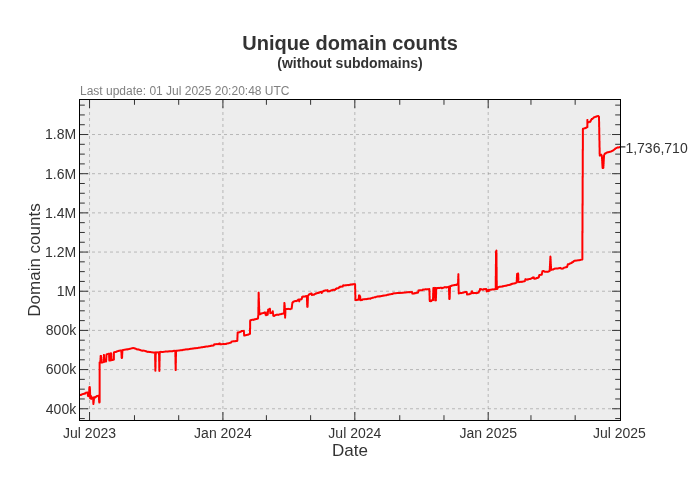
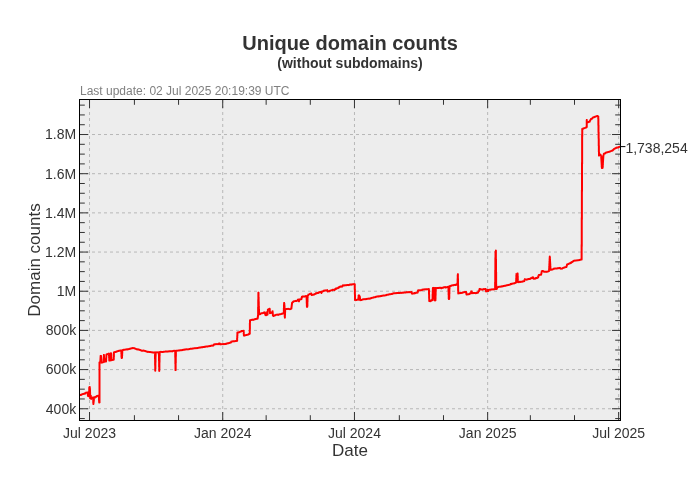
Update pages

diff --git a/README.md b/README.md
@@ -3,23 +3,23 @@ A blocklist file for blocking ads, trackers and malware domains.
 
[1 lines of base64/hex data omitted]
 
-- Unique domains: 2,448,076
-- Without subdomains: 1,736,710
-- Last update: 01 Jul 2025 20:20:48 UTC
-- Version: 2025.07.01.01
+- Unique domains: 2,450,290
+- Without subdomains: 1,738,254
+- Last update: 02 Jul 2025 20:19:39 UTC
+- Version: 2025.07.02.01
 
 
 ### Downloads:
 
 | Format             | Domain count      | Download Link |
 |:------------------ | -----------------:|:-------------:|
-| *Adblock Plus*     | 1,736,710 | [Download](https://dl.cenk.app/bad-hosts/bad-hosts-abp) |
-| *Wildcard domains* | 1,736,710 | [Download](https://dl.cenk.app/bad-hosts/bad-hosts-wildcard) |
-| *dnsmasq*          | 1,736,710 | [Download](https://dl.cenk.app/bad-hosts/bad-hosts-dnsmasq) |
-| *Unbound*          | 1,736,710 | [Download](https://dl.cenk.app/bad-hosts/bad-hosts-unbound) |
-| *hosts*            | 2,448,076 | [Download](https://dl.cenk.app/bad-hosts/hosts) |
-| *hosts (ipv6)*     | 2,448,076 | [Download](https://dl.cenk.app/bad-hosts/hosts-ipv6) |
-| *Plain domains*    | 2,448,076 | [Download](https://dl.cenk.app/bad-hosts/bad-hosts-domains) |
+| *Adblock Plus*     | 1,738,254 | [Download](https://dl.cenk.app/bad-hosts/bad-hosts-abp) |
+| *Wildcard domains* | 1,738,254 | [Download](https://dl.cenk.app/bad-hosts/bad-hosts-wildcard) |
+| *dnsmasq*          | 1,738,254 | [Download](https://dl.cenk.app/bad-hosts/bad-hosts-dnsmasq) |
+| *Unbound*          | 1,738,254 | [Download](https://dl.cenk.app/bad-hosts/bad-hosts-unbound) |
+| *hosts*            | 2,450,290 | [Download](https://dl.cenk.app/bad-hosts/hosts) |
+| *hosts (ipv6)*     | 2,450,290 | [Download](https://dl.cenk.app/bad-hosts/hosts-ipv6) |
+| *Plain domains*    | 2,450,290 | [Download](https://dl.cenk.app/bad-hosts/bad-hosts-domains) |
 
 ### Domain count history
 #### With subdomains
